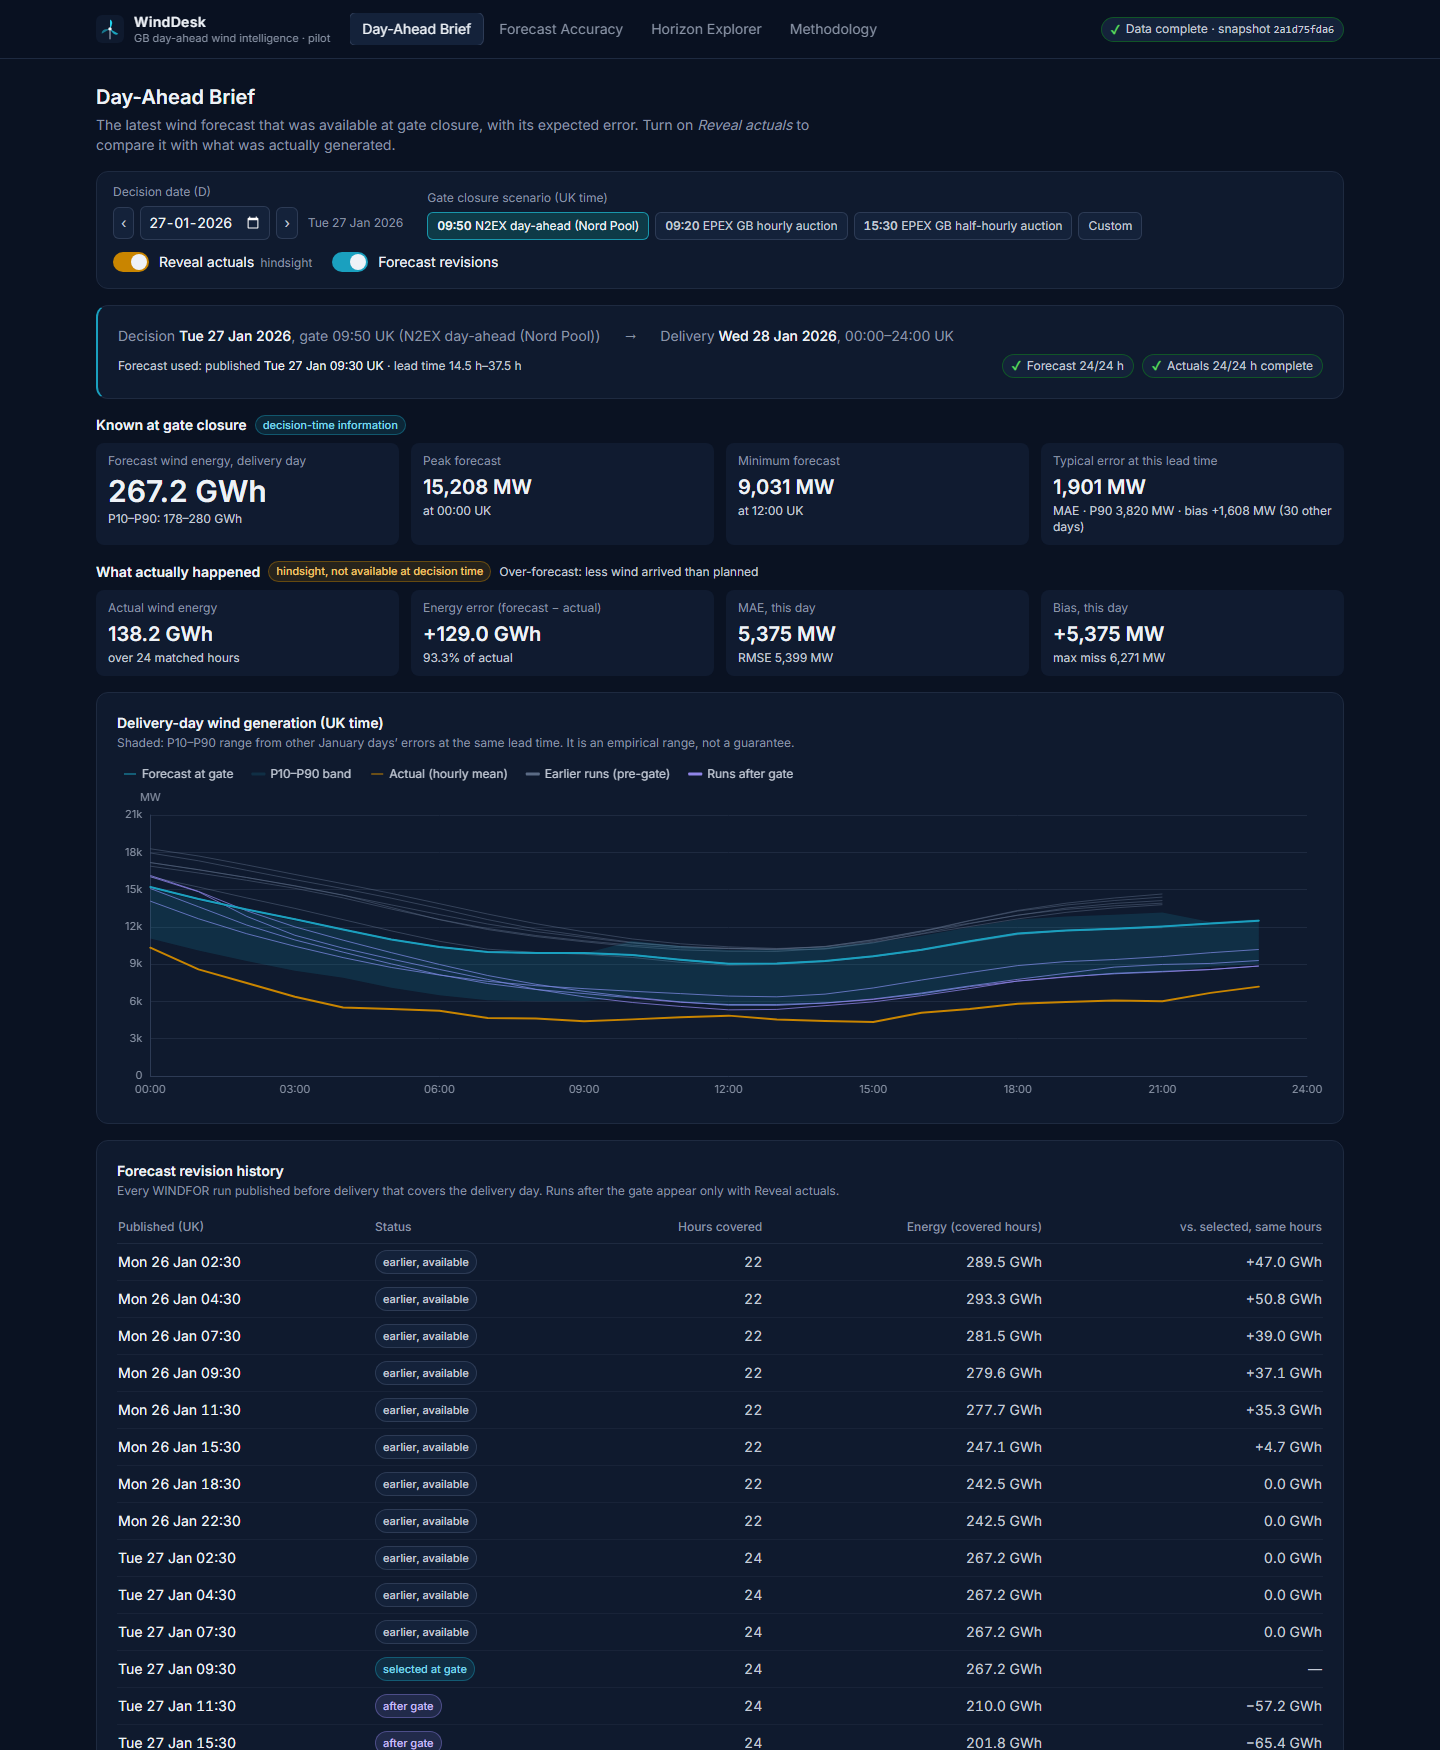
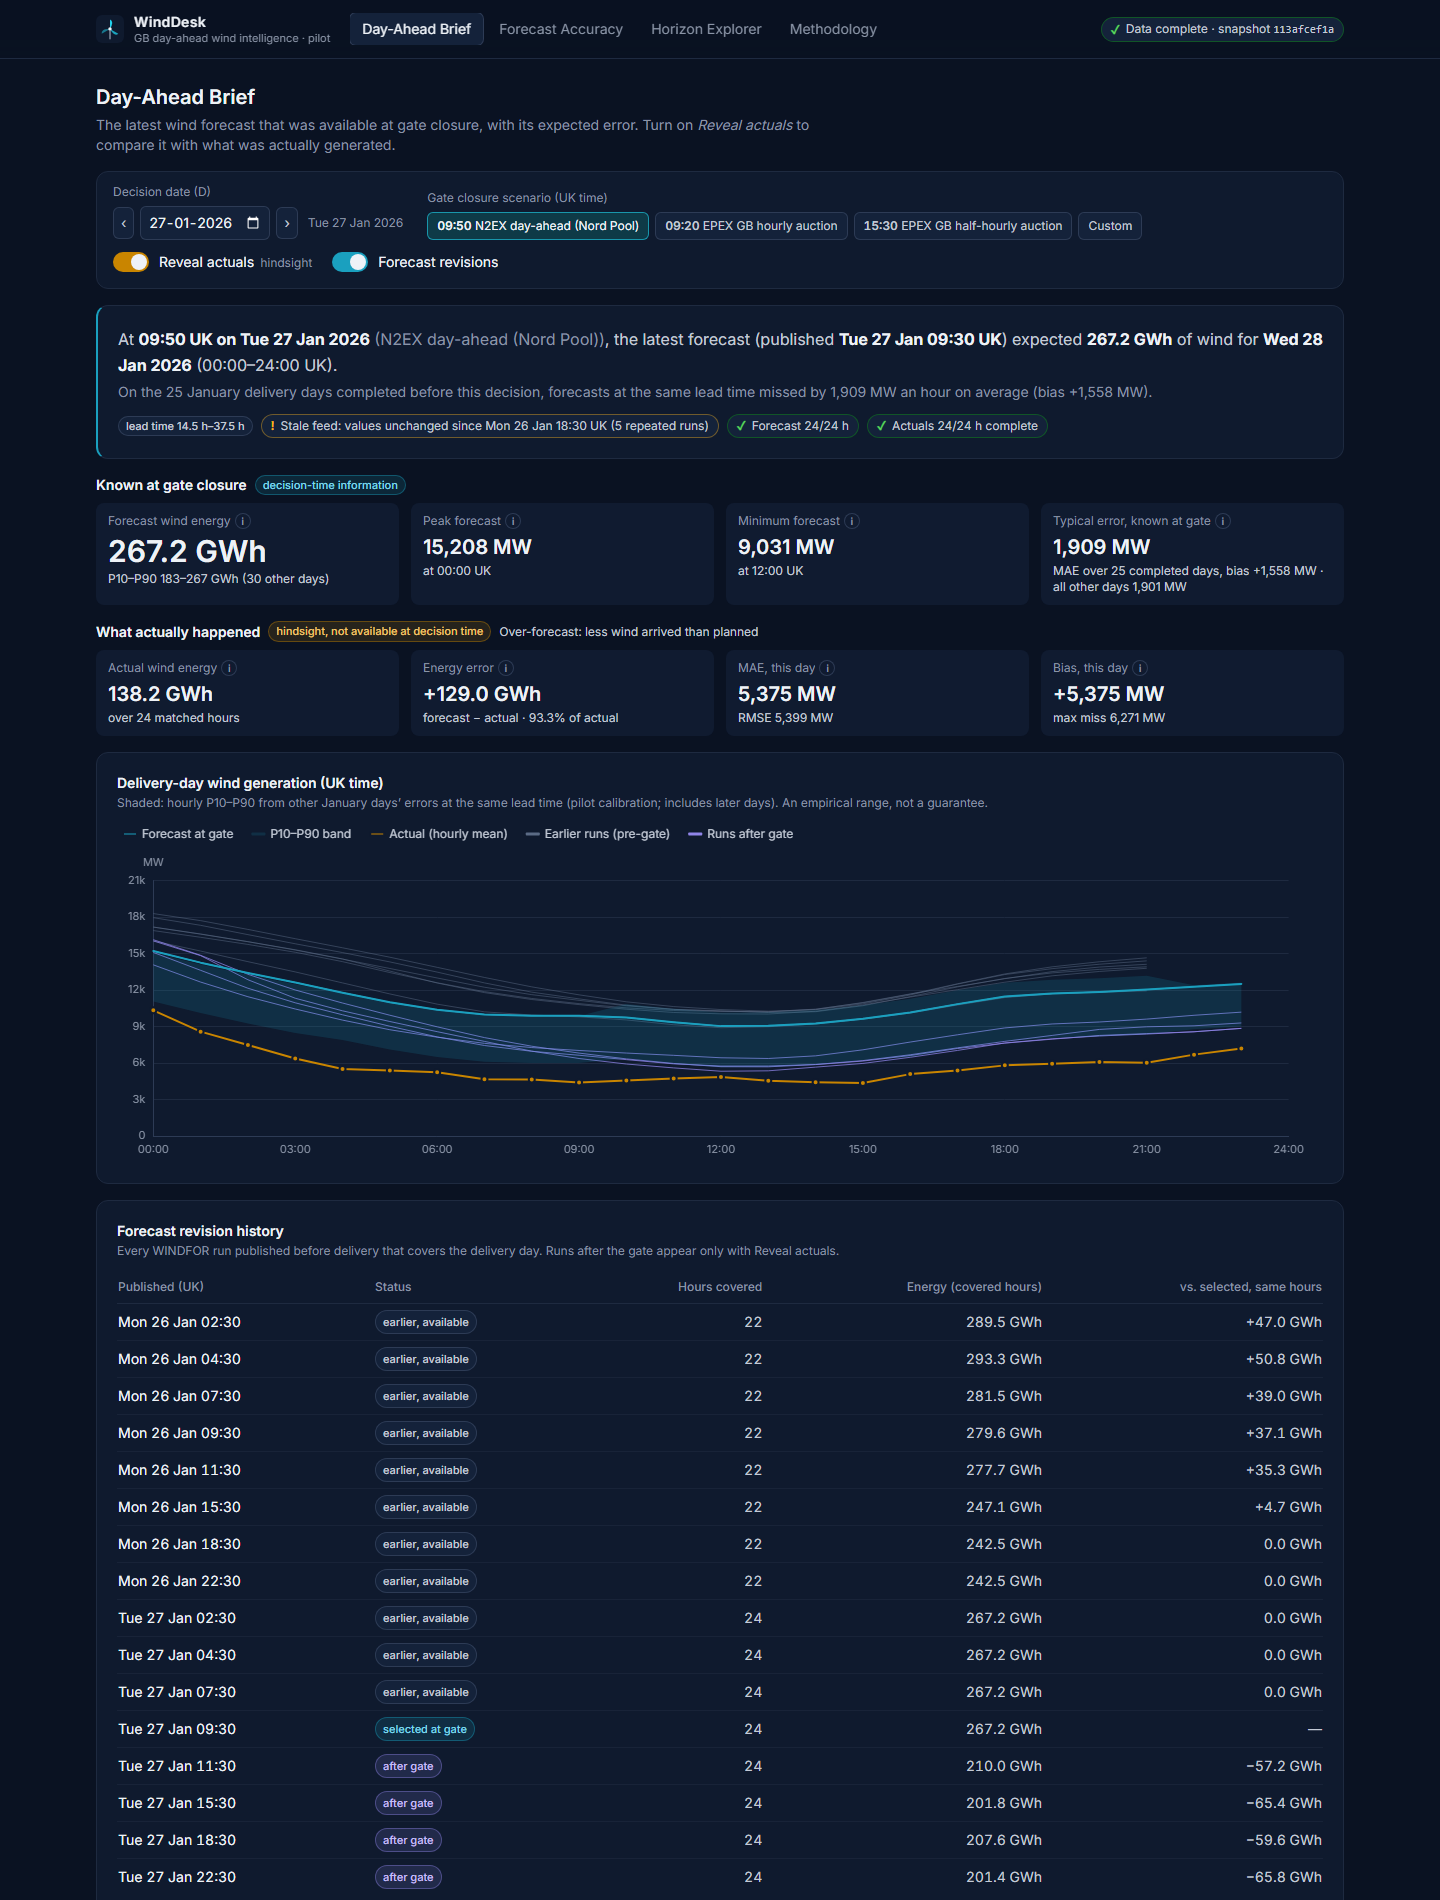
docs: engineering audit report and refreshed screenshots

diff --git a/docs/AUDIT_REPORT.md b/docs/AUDIT_REPORT.md
@@ -1,0 +1,118 @@
+# WindDesk engineering audit (2026-10-23)
+
+Scope: full review of ingestion, domain logic, API, frontend, security, Docker and deployment.
+Every finding below was reproduced against the real January 2026 snapshot or the running app
+before being fixed, and each fix has a regression test unless noted.
+
+**Baseline before the audit:** 129 backend and 23 frontend tests passing, lint clean.
+Passing tests did not cover the defects below.
+
+## 1. Issues found and fixed
+
+### Critical
+None. Cutoff-aware forecast selection was already correct: no forecast published after the
+gate is ever selected. This is re-verified for 31 decisions × 36 gates on the real data.
+
+### High
+
+| # | Issue | Evidence | Fix | Regression test |
+|---|---|---|---|---|
+| H1 | **Look-ahead in the decision-time view.** The "typical error" tile and band under *Known at gate closure* were computed from all other January days, including later ones. | 648 of 744 pool rows for a 5 Jan decision came from later deliveries. | New `typical_error_known_at_gate` uses only delivery days that ended before the decision day. The all-other-days figure is labelled *pilot calibration*. | `test_decision_separates_known_at_gate_error_from_pilot_calibration`, page test |
+| H2 | **Invalid daily energy P10–P90.** It was the sum of hourly quantiles, which is not a daily quantile. | Held-out daily coverage was 27/31 = 87% against a nominal 80%. | Quantiles of daily energy errors on other full-coverage days (LODO, ≥ 10 days). Hidden for partial days. Coverage is reported (74%). | `test_daily_energy_band_*`, `test_accuracy_reports_daily_energy_band_coverage` |
+| H3 | **Ingestion could replace a good snapshot with incomplete or half-written data.** | Gaps only produced a warning, and files were written in place. | Completeness gate (`--allow-incomplete` to override, recorded in the manifest). Staged write, checksum round-trip, then atomic swap. | `tests/test_ingest_script.py` (5 tests) |
+| H4 | **Unbounded caches keyed by user input.** Any HH:MM gate or date range could exhaust memory. | 60 custom gates left 61 cached frames. | Bounded LRU memos. | `test_caches_stay_bounded_under_many_custom_gates`, `test_memo_evicts_*` |
+| H5 | **Cache stampede.** Concurrent first requests for one key all recomputed it; under the GIL this slowed every request. Found by the parallel e2e suite. | `/meta` took over 10 s; the e2e tests timed out. | Single-flight per key. | `test_concurrent_requests_for_one_key_compute_once` |
+| H6 | **Vulnerable production dependencies.** | `npm audit --omit=dev`: react-router (high, open redirect) and echarts (moderate, XSS). | react-router-dom 7.18.4, echarts 6.1.0. Production audit is now 0. | `npm audit --omit=dev` |
+
+### Medium
+
+| # | Issue | Fix |
+|---|---|---|
+| M1 | 500 responses had no `X-Request-ID`, although the body asked users to quote it, and the exception log had no request ID | Middleware catches the exception, logs it with the ID, and returns a generic problem+json that carries the ID (test added) |
+| M2 | Key-findings sentence was wrong when bias was negative (wrong direction word for the percentage) | States both shares and the direction of the balance (tests for positive and negative bias) |
+| M3 | Partially forecast days were presented as full-day energy | `hours_expected`; "Partial: 22 of 24 h" warning; no daily range (API, unit and e2e tests) |
+| M4 | A late run (12:25 filling the 11:30 slot) counted as available to gates before 12:25 | Availability follows the real `latest_publish_uk` (test) |
+| M5 | Snapshot bytes and version differed between Windows (CRLF) and Linux | LF line endings. Snapshot regenerated: `jan2026-113afcef1a`, identical on Windows and in Docker (test) |
+| M6 | Horizon slider committed only on pointer-up/key-up, then a race dropped keypresses (found by e2e) | `useDebouncedCommit` with a remembered last commit (hook test and e2e test) |
+| M7 | Phones: legend overlapped the axis title, x-labels collided, and Accuracy overflowed horizontally (570 px in 375 px) | ECharts media queries, `hideOverlap`, `min-w-0` cards (e2e overflow tests on every route) |
+| M8 | CSV: non-machine-readable UK times, no BOM, object URL revoked synchronously | `YYYY-MM-DD HH:MM` UK and UTC columns, BOM, delayed revoke; built by a pure `decisionCsv()` from the table's rows (unit and e2e tests) |
+| M9 | Notebook re-run instructions referenced an uninstalled tool | `jupyter execute --inplace` (verified by re-executing the notebook) |
+
+### Low
+
+The following were fixed:
+
+* **L1:** gate presets used `role=radio` without arrow-key behaviour; they now use `aria-pressed`.
+* **L2:** no skip link or per-route document titles.
+* **L3:** no metric explanations; every KPI tile now has an accessible InfoHint.
+* **L4:** some information relied on colour alone. Actuals now have markers, and the vintage
+  chart has a labelled "After gate" region.
+* **L5:** no security headers or CSP, and an unvalidated client `X-Request-ID` was echoed back.
+* **L6:** `uvicorn[standard]` extras were included in the serverless bundle.
+* **L7:** the Methodology page hard-coded band thresholds; they now come from `/meta`.
+* **L8:** a nonexistent DST gate time returned 500; it now returns 422.
+* **L9:** the compose ingest mount was incompatible with atomic replace.
+* **L10:** CI used deprecated Node 20 actions and had no typecheck or e2e job.
+* **L11:** number formatters were re-created on every call.
+
+## 2. Feature verification
+
+Each item was tested in the running app (browser pane, desktop, 768 px and 375 px), in
+automated tests, or both.
+
+| Feature | Expected | How tested | Result |
+|---|---|---|---|
+| Decision date picker and stepping | Next/prev change D and D+1 together | e2e, browser | Pass |
+| Gate presets and custom gate | Selected run follows the gate (09:50 → 09:30 run, 09:20 → 07:30, 15:30 → 15:30) | e2e, API tests | Pass |
+| Delivery day, publish time, lead time | Correct UK times; 14.5–37.5 h at 09:50 | e2e, API tests | Pass |
+| Energy, peak, minimum, known-at-gate error | Match API; no later-day data in decision-time figures | unit, API, browser | Pass |
+| Daily and hourly P10–P90 | Valid method; coverage reported; hidden when unsupported | unit, API, browser | Pass |
+| Reveal actuals | Hindsight tiles, line, post-gate runs and columns appear only when on; works by keyboard | unit, e2e | Pass |
+| Revision history | Pre-gate runs always; post-gate runs only in hindsight; deltas over common hours | unit, browser | Pass |
+| Hourly table and CSV | 24 rows; CSV rows equal table and API rows; BOM; filename | unit, e2e (real download) | Pass |
+| Stale-feed and partial-day warnings | Shown with dates and counts | API, unit, e2e | Pass |
+| Accuracy KPIs and findings | Consistent with API; correct for both bias signs | unit, e2e | Pass |
+| Daily, histogram, hour, horizon, scatter and vintage charts | Render; tooltips; non-colour cues | builder unit tests, browser | Pass |
+| Worst days → brief → back | Deep link opens hindsight; back returns | e2e | Pass |
+| Date-range filtering | 5–12 Jan gives 192 expected hours; survives reload | e2e | Pass |
+| Horizon Explorer | Lead-time rule enforced; slider commits | API, unit, e2e | Pass |
+| Methodology | Matches implementation; thresholds from `/meta` | review, browser | Pass |
+| Invalid params, 404, API errors | Safe defaults; in-app 404; error and retry | e2e | Pass |
+| Responsive layout | No horizontal overflow at 375 px; readable charts | e2e (Pixel 7), browser | Pass |
+
+## 3. Verification commands and results (final run)
+
+| Check | Result |
+|---|---|
+| `uv run pytest` (backend) | **150 passed** |
+| `ruff check`, `ruff format --check` | clean |
+| requirements.txt vs uv.lock | in sync |
+| `npm run lint`, `format:check`, `typecheck` | clean |
+| `npm test` (Vitest) | **38 passed** (5 files) |
+| `npm run build` | success |
+| `npm run test:e2e` (Playwright, Chrome) | **15 passed** (11 desktop, 4 mobile), stable across repeated runs |
+| GitHub Actions on `f0428c0` | backend, frontend, e2e, Docker: all passed |
+| `pip-audit -r requirements.txt` | no known vulnerabilities |
+| `npm audit --omit=dev` | 0 vulnerabilities |
+| Live re-ingestion (Windows and Docker) | byte-identical to the committed snapshot |
+| `docker compose up --build` (clean) | healthy, non-root (uid 10001), all endpoints correct, CSP present, traversal probes return 404 or the SPA, never files |
+| Production https://zs6c78z.vercel.app (anonymous) | UI routes 200; API 200/422/404 as expected; snapshot `jan2026-113afcef1a`; security headers; ETag and 304 |
+
+## 4. Remaining known issues
+
+* **Dev-only advisories:** esbuild under the Vite 5 dev server, Vitest 2 and tinypool, and
+  Tailwind 3's postcss-selector-parser. None ship to production; fixing them needs major
+  upgrades (Vite 6+, Vitest 3+, Tailwind 4).
+* **Pilot calibration:** bands use leave-one-day-out, which includes days after each decision.
+  This is labelled in the UI. A trailing-only band would be empty for early January, because
+  data outside the scope is not used.
+* **Domain assumptions** (documented): `publishTime` is taken as availability time, the
+  delivery day is 00:00–24:00 UK, and the hourly-mean alignment is assumed (WINDFOR semantics
+  are undocumented).
+* **Chart data for screen readers:** the Brief has a full table. The Accuracy charts rely on
+  aria labels, tooltips, the worst-days table and the API; per-chart data tables are a
+  follow-up.
+* **Bundle size:** ECharts 6 is about 213 KB gzipped and is needed on three of the four
+  routes.
+* **Deployment:** Vercel is deployed from the CLI. The GitHub ↔ Vercel integration is not
+  connected (it needs the Vercel GitHub app on the account).
